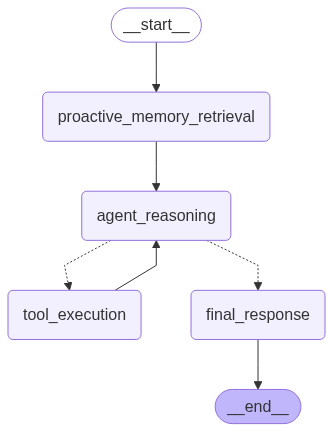
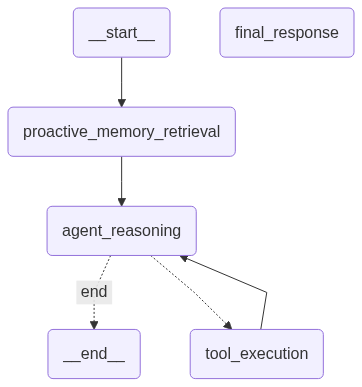
fix: fix graph workflow

diff --git a/src/services/lang_graph/graph.py b/src/services/lang_graph/graph.py
@@ -82,7 +82,7 @@ USE SEMPRE que apropriado. Não ignore informações pessoais do usuário.
     return base_prompt + memory_types_desc + tools_instructions + memories_context
 
 
-def proactive_memory_retrieval(state: CustomMessagesState) -> CustomMessagesState:
+async def proactive_memory_retrieval(state: CustomMessagesState) -> CustomMessagesState:
     """Nó para recuperação proativa de memórias."""
     try:
         # Verificar se temos as informações necessárias
@@ -133,7 +133,7 @@ def proactive_memory_retrieval(state: CustomMessagesState) -> CustomMessagesStat
         return state
 
 
-def agent_reasoning(state: CustomMessagesState) -> CustomMessagesState:
+async def agent_reasoning(state: CustomMessagesState) -> CustomMessagesState:
     """Nó principal do agente para raciocínio e decisão."""
     try:
         config = state.get("config")
@@ -167,7 +167,7 @@ def agent_reasoning(state: CustomMessagesState) -> CustomMessagesState:
         )
 
         # Executar o modelo
-        response = model_with_tools.invoke(langchain_messages)
+        response = await model_with_tools.ainvoke(langchain_messages)
         logger.info(f"Resposta do modelo: {response.content[:100]}...")
 
         # Verificar se há tool calls na resposta
@@ -236,7 +236,7 @@ tool_node = ToolNode(
 )
 
 
-def tool_execution_simplified(state: CustomMessagesState) -> CustomMessagesState:
+async def tool_execution_simplified(state: CustomMessagesState) -> CustomMessagesState:
     """Versão simplificada usando ToolNode do LangGraph."""
     try:
         messages = state.get("messages", [])
@@ -292,7 +292,7 @@ def tool_execution_simplified(state: CustomMessagesState) -> CustomMessagesState
         )
 
         # Executar ToolNode - ele cuida de tudo automaticamente!
-        result = tool_node.invoke(state, config=runnable_config)
+        result = await tool_node.ainvoke(state, config=runnable_config)
 
         # ToolNode retorna o estado atualizado com ToolMessages
         # Adicionar as mensagens de ferramenta ao estado
@@ -397,7 +397,7 @@ def tool_execution_simplified(state: CustomMessagesState) -> CustomMessagesState
         return state
 
 
-def final_response(state: CustomMessagesState) -> CustomMessagesState:
+async def final_response(state: CustomMessagesState) -> CustomMessagesState:
     """Nó final para preparar a resposta após execução de ferramentas."""
     try:
         messages = state.get("messages", [])
@@ -435,7 +435,7 @@ def final_response(state: CustomMessagesState) -> CustomMessagesState:
 
         # Executar o modelo para gerar resposta final
         try:
-            response = chat_model.invoke(langchain_messages)
+            response = await chat_model.ainvoke(langchain_messages)
             logger.info(f"Resposta final gerada: {response.content[:100]}...")
 
             # Adicionar resposta final ao estado
@@ -462,17 +462,32 @@ def final_response(state: CustomMessagesState) -> CustomMessagesState:
         return state
 
 
-def should_use_tools(state: CustomMessagesState) -> str:
-    """Decide se deve executar ferramentas ou ir direto para resposta final."""
-    messages = state.get("messages", [])
-    if not messages:
-        return "final_response"
+# def should_use_tools(state: CustomMessagesState) -> str:
+#     """Decide se deve executar ferramentas ou ir direto para resposta final."""
+#     messages = state.get("messages", [])
+#     if not messages:
+#         return "final_response"
 
-    last_message = messages[-1]
+#     last_message = messages[-1]
+#     if hasattr(last_message, "tool_calls") and last_message.tool_calls:
+#         return "tool_execution"
+#     else:
+#         return "final_response"
+
+
+def should_use_tools(state: CustomMessagesState) -> str:
+    """
+    Decide se o fluxo deve continuar para a execução de ferramentas ou se deve terminar.
+    """
+    # Acessa a última mensagem adicionada ao estado, que é a resposta do agente.
+    last_message = state["messages"][-1]
+
+    # Se a mensagem tem chamadas de ferramentas, o fluxo deve ir para o nó de execução.
     if hasattr(last_message, "tool_calls") and last_message.tool_calls:
         return "tool_execution"
+    # Se não há chamadas de ferramentas, o agente considera o trabalho concluído.
     else:
-        return "final_response"
+        return "end"
 
 
 def create_graph() -> StateGraph:
@@ -495,13 +510,15 @@ def create_graph() -> StateGraph:
         workflow.add_conditional_edges(
             "agent_reasoning",
             should_use_tools,
-            {"tool_execution": "tool_execution", "final_response": "final_response"},
+            {"tool_execution": "tool_execution", "end": END},
         )
-        workflow.add_edge("tool_execution", "agent_reasoning")
+        # workflow.add_edge("tool_execution", "agent_reasoning")
+        # workflow.add_edge("tool_execution", "final_response")
 
         # workflow.add_edge("agent_reasoning", "tool_execution")
-        # workflow.add_edge("tool_execution", "final_response")
-        workflow.add_edge("final_response", END)
+
+        workflow.add_edge("tool_execution", "agent_reasoning")
+        # workflow.add_edge("final_response", END)
 
         # Configurar ponto de entrada
         workflow.set_entry_point("proactive_memory_retrieval")

diff --git a/src/services/lang_graph/chat.py b/src/services/lang_graph/chat.py
@@ -52,10 +52,10 @@ class InteractiveChat:
             )
             return False
 
-    def send_message(self, message: str) -> str:
+    async def send_message(self, message: str) -> str:
         """Envia uma mensagem para o chatbot."""
         try:
-            response = self.chatbot_service.process_message(
+            response = await self.chatbot_service.process_message(
                 user_id=self.user_id,
                 thread_id=self.thread_id,
                 message=message,
@@ -108,7 +108,7 @@ class InteractiveChat:
         self.thread_id = str(uuid.uuid4())
         self.initialize_session()
 
-    def run(self):
+    async def run(self):
         """Executa o chat interativo."""
         print("🤖 Chatbot LangGraph - Chat Interativo")
         print("=" * 50)
@@ -138,7 +138,7 @@ class InteractiveChat:
 
                 # Enviar mensagem para o chatbot
                 print("🤖 Bot: ", end="", flush=True)
-                response = self.send_message(user_input)
+                response = await self.send_message(user_input)
                 print(response)
                 print()
 
@@ -193,17 +193,19 @@ class InteractiveChat:
             print("Digite /help para ver os comandos disponíveis")
 
 
-def main():
+async def main():
     """Função principal."""
     logging.basicConfig(level=logging.INFO)
 
     try:
         chat = InteractiveChat()
-        chat.run()
+        await chat.run()
     except Exception as e:
         print(f"❌ Erro fatal: {e}")
         sys.exit(1)
 
 
 if __name__ == "__main__":
-    main()
+    import asyncio
+
+    asyncio.run(main())

diff --git a/src/services/lang_graph/service.py b/src/services/lang_graph/service.py
@@ -97,7 +97,7 @@ class LangGraphChatbotService:
             logger.error(f"Erro ao inicializar sessão: {e}")
             return {"success": False, "error_message": str(e)}
 
-    def process_message(
+    async def process_message(
         self,
         user_id: str,
         thread_id: str,
@@ -139,7 +139,7 @@ class LangGraphChatbotService:
             # Executar o grafo com thread_id para manter memória de curto prazo
             config_dict = {"configurable": {"thread_id": thread_id}}
 
-            final_state = self.graph.invoke(initial_state, config=config_dict)
+            final_state = await self.graph.ainvoke(initial_state, config=config_dict)
 
             # Extrair resposta
             messages = final_state.get("messages", [])

diff --git a/src/services/lang_graph/agent.md b/src/services/lang_graph/agent.md
@@ -1,3 +1,5 @@
+quero testar suas capacidades de usar ferramentas sequencialemnte, utilize o save_memory_tool pra salvar a informacao que tenho uma consulta no dentista semana que vem, depois utilize a tool get_memory_tool pra pegar essa informacao, em seguida faca o update pois a consulta é daqui duas semanas e finalmente use o delete_tool_memory para deletar a memoria pois a consulta foi cancelada
+
 ### Plano de Elaboração de Chatbot
 
 **Objetivo:** Criar um chatbot com memória de longo prazo persistente, onde a gestão dessa memória é uma habilidade intrínseca do agente conversacional. Prioridade em custos e simplicidade para a V1, permitindo que o agente decida *quando* e *o que* buscar e memorizar. Utilizar ChatGoogleGenerativeAI e GoogleGenerativeAIEmbeddings
